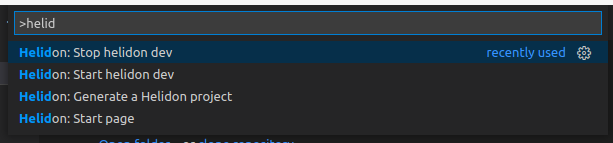
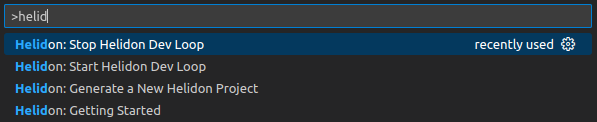
fix readme, ignore failing test, add logs and messages for user

diff --git a/ide-support/vscode-extension/src/helidonDev.ts b/ide-support/vscode-extension/src/helidonDev.ts
@@ -105,12 +105,11 @@ function obtainHelidonServerInstance(helidonProjectDir: string, extensionPath: s
         const helidonServer = launchedServers.get(helidonDirName)!;
         if (helidonServer.isActive) {
             helidonServer.outputChannel.show();
-            VSCodeAPI.showInformationMessage(`Dev Loop for the project in '${helidonDirName}' has already running`);
+            VSCodeAPI.showInformationMessage(`Dev Loop for the project in the folder '${helidonDirName}' is already running`);
             return helidonServer;
         }
         // change existing instance
         helidonServer.serverProcess = obtainNewServerProcess(helidonProjectDir, extensionPath);
-        VSCodeAPI.showInformationMessage(`Dev Loop for the project in '${helidonDirName}' has already running`);
         helidonServer.outputChannel.show();
         configureServerOutput(helidonServer.serverProcess, helidonServer.outputChannel);
         helidonServer.isActive = true;
@@ -212,15 +211,18 @@ function configureServerOutput(serverProcess: ChildProcess, outputChannel: Outpu
 
     serverProcess.on('close', (code: string) => {
         outputChannel.appendLine("Server stopped");
-        stopHelidonDev();
+        stopHelidonDev(true);
     });
 }
 
-export async function stopHelidonDev() {
+export async function stopHelidonDev(flag?: boolean) {
     try {
         let currentHelidonServer: HelidonServerInstance;
         const activeServerNames = getActiveServerNames();
         if (activeServerNames.length === 0) {
+            if (flag === undefined){
+                VSCodeAPI.showInformationMessage(`Dev Loop is not started`);
+            }
             return;
         }
         if (activeServerNames.length === 1) {
@@ -236,7 +238,7 @@ export async function stopHelidonDev() {
             currentHelidonServer.outputChannel.show();
             deactivateServer(currentHelidonServer);
         } else {
-            VSCodeAPI.showInformationMessage(`Dev Loop for the project in '${stopServerName}' is not started`);
+            VSCodeAPI.showInformationMessage(`Dev Loop for the project in the folder '${stopServerName}' is not started`);
         }
     } catch (e: any) {
         VSCodeAPI.showErrorMessage(e.message);

diff --git a/ide-support/vscode-extension/src/generator.ts b/ide-support/vscode-extension/src/generator.ts
@@ -228,7 +228,8 @@ export async function showHelidonGenerator(extensionPath: string) {
                 logger.error(e);
             } else if (e instanceof Error) {
                 VSCodeAPI.showErrorMessage(`Cannot get information about Helidon archetypes : ${e.message}`);
-                logger.error(e.stack);
+                logger.error((e as any).request);
+                logger.error((e as any).response);
             }
         }
     }
@@ -441,7 +442,8 @@ export async function showHelidonGenerator(extensionPath: string) {
         }
     } catch (e: any) {
         VSCodeAPI.showErrorMessage(e.message);
-        logger.error(e.stack);
+        // logger.error(e.stack);
+        logger.error(e.toString());
     }
 
 }

diff --git a/ide-support/vscode-extension/src/test/suite/helidonDev.test.ts b/ide-support/vscode-extension/src/test/suite/helidonDev.test.ts
@@ -139,7 +139,7 @@ suite('HelidonDev Test Suite', () => {
 
         await stopHelidonDev();
         const resultServers = getLaunchedServers();
-        expect(resultServers.get('helidonDir3')!.isActive).is.false;
+        // expect(resultServers.get('helidonDir3')!.isActive).is.false;
     });
 
     test('A helidon server is chosen and starts when a few Helidon projects exist in the workspace', async () => {

diff --git a/ide-support/vscode-extension/assets/start_page.html b/ide-support/vscode-extension/assets/start_page.html
@@ -1,7 +1,7 @@
 <!DOCTYPE html>
 <!--
 
-    Copyright (c) 2021 Oracle and/or its affiliates. All rights reserved.
+    Copyright (c) 2021, 2023 Oracle and/or its affiliates. All rights reserved.
 
     Licensed under the Apache License, Version 2.0 (the "License");
     you may not use this file except in compliance with the License.

diff --git a/ide-support/vscode-extension/README.md b/ide-support/vscode-extension/README.md
@@ -2,50 +2,44 @@
 
 This extension helps users to generate their first Helidon project, develop and run it.
 
+The [Java Extension Pack](https://marketplace.visualstudio.com/items?itemName=vscjava.vscode-java-pack) extension is optional 
+but recommended for the installation in Visual Studio Code to support Java projects. 
+
 ## Requirements
 
-* Maven 3.5.3+ is required to be installed on your system.
-* Helidon CLI is required to be installed on your system if you want to use continuous compilation and application
-  restart.
-*
-
-The [Language Support for Eclipse MicroProfile](https://marketplace.visualstudio.com/items?itemName=redhat.vscode-microprofile)
-extension is required to be installed in Visual Studio Code.
-
-* The [Language Support for Java(TM) by Red Hat](https://marketplace.visualstudio.com/items?itemName=redhat.java)
-  extension is required to be installed in Visual Studio Code.
-* The [Java Extension Pack](https://marketplace.visualstudio.com/items?itemName=vscjava.vscode-java-pack) extension is
-  optional but recommended.
+* Maven 3.8.2 or newer is required to be installed in your system.
+* Java 17 or newer is required to be installed in your system.
 
 ## Features
 
 The Helidon extension provides:
 
 * Helidon project creation wizard
-* Start/stop helidon dev (as you make source code changes the project will automatically recompile and restart your
+* Start/stop Developer Loop (as you make source code changes the project will automatically recompile and restart your
   application)
-* auto completion for the application.properties files
+* auto completion for configuration properties files (application.yaml, microprofile-config.properties, etc.)
 
 ## How to open the start page for the extension
 
-1. Open Command Palette by shortcut you are using (default: Ctrl+Shift+P).
-2. Start typing 'Helidon':
+1. Open Command Palette using `View -> Command Pallette...` from the top menu bar or by shortcut for this command for your Operating System
+   (for Windows and Linux - `Ctrl+Shift+A`, for Mac - `Cmd+Shift+P`).
+2. Start typing `Helidon` :
 
 ![](images/helidon_command_palette.png)
 
-3. Choose 'Helidon: Start page'.
+3. Choose `Helidon: Getting Started`.
 
 ## How to generate Helidon Project
 
-1. Open Command Palette by shortcut you are using (default: Ctrl+Shift+P).
-2. Start typing 'Helidon' :
+1. Open Command Palette.
+2. Start typing `Helidon` :
 
 ![](images/helidon_command_palette.png)
 
-3. Choose 'Helidon: Generate a Helidon project'.
-4. Choose type of the Helidon project :
+3. Choose `Helidon: Generate a New Helidon Project`.
+4. Choose Helidon version :
 
-![](images/generator_type_project_selection.png)
+![](images/generator_helidon_version.png)
 
 5. Follow generator till the end.
 6. You will receive messages during the process, and a request where do you want to open the project:
@@ -54,41 +48,38 @@ The Helidon extension provides:
 
 7. Your new project is generated
 
-## How to start helidon dev
+## How to start Helidon Dev Loop
 
-1. Open Command Palette by shortcut you are using (default: Ctrl+Shift+P)
-2. Start typing 'Helidon'
-3. Choose 'Helidon: Start helidon dev'
-4. If workspace contains only one helidon project, helidon dev starts automatically. If workspace contains more than one
-   helidon project, you will be asked to choose a directory to start helidon dev.
+1. Open Command Palette
+2. Start typing `Helidon`
+3. Choose `Helidon: Start Helidon Dev Loop`
+4. If a workspace contains only one Helidon project, `Helidon Dev Loop` starts automatically. If the workspace contains more than one
+   Helidon project, you will be asked to choose a directory to start `Helidon Dev Loop`.
 
 ![](images/start_server_selection.png)
 
-5. You will find the server logs in the bottom panel in the output tab. You can select a server to show the logs
-   choosing project directory in the drop-down list.
+5. You will find the server logs in the bottom panel in the tab `OUTPUT`. You can select a server to show the logs
+   choosing a project directory in the drop-down list.
 
 ![](images/running_server_output.png)
 
-## How to stop helidon dev
+## How to stop Helidon Dev Loop
 
-1. Open Command Palette by shortcut you are using (default: Ctrl+Shift+P)
-2. Start typing 'Helidon'
-3. Choose 'Helidon: Stop helidon dev'
-4. If workspace contains only one running helidon project, helidon dev stops automatically. If workspace contains more
-   than one running helidon project, you will be asked to choose a directory to stop helidon dev.
+1. Open Command Palette
+2. Start typing `Helidon`
+3. Choose `Helidon: Stop Helidon Dev Loop`
+4. If the workspace contains only one running Helidon project, `Helidon Dev Loop` stops automatically. If the workspace contains more
+   than one running Helidon project, you will be asked to choose a directory to stop `Helidon Dev Loop`.
 
 ![](images/stop_server_selection.png)
 
 ## How to test
 
-1. Clone the project
-2. Run the following command in your newly cloned project folder
-    * npm install
-2. Open it in VS Code
-3. Run it
-4. You will need a backend part of the project Lsp4helidon
-   from [helidon-build-tools](https://github.com/oracle/helidon-build-tools)
-5. To build the backend part of the project run `npm run build`. This command runs scripts from package.json.
+1. Clone the project [helidon-build-tools](https://github.com/oracle/helidon-build-tools)
+2. You will need to build a module `ide-support` using `Maven`. This module contains backend and frontend part of the VSCode extension,
+ its dependencies and a maven plugin that is used by `Helidon Language Server`. 
+3. Open the module `helidon-vscode-extension` in `VS Code`.
+4. Run it
 
 ## Helidon Documentation
 
